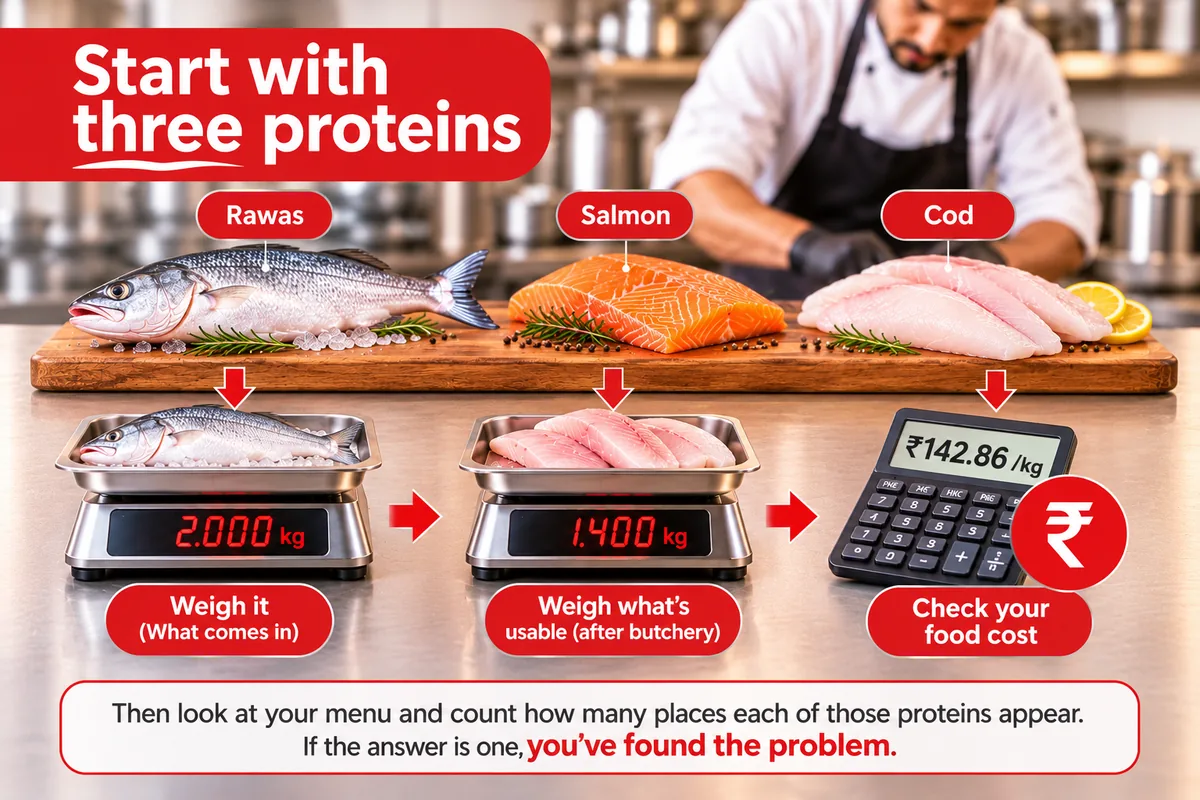
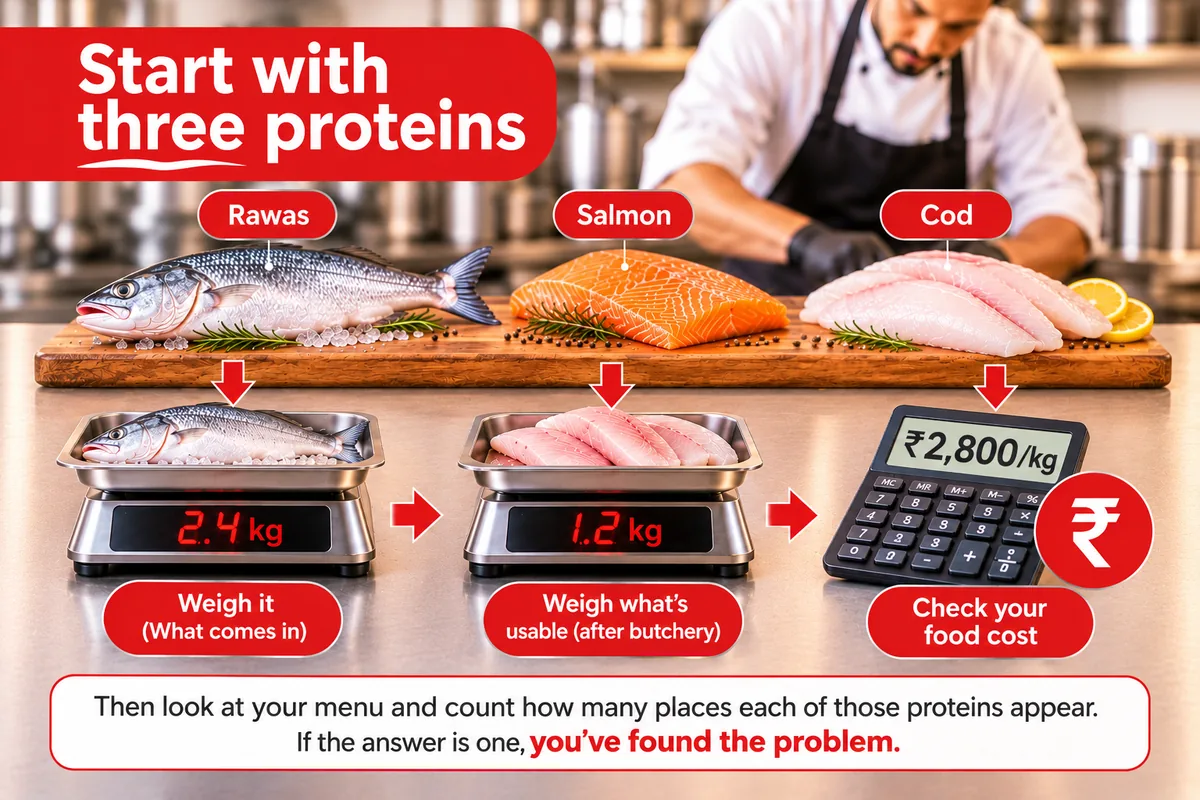
The three-proteins image showed 2.0 kg, 1.4 kg and 142.86 a kilo, none of which the article uses
The regenerated image shows the article's own rawas: 2.4 kg in, 1.2 kg
usable, 2,800 rupees per usable kilo. Alt text now says so too.

diff --git a/restaurant-food-cost-control-butchery-yield.html b/restaurant-food-cost-control-butchery-yield.html
@@ -1674,7 +1674,7 @@
       <figure class="fig">
         <img loading="lazy" decoding="async" width="1200" height="800"
           src="images/blog/restaurant-food-cost-control-butchery-yield/three-proteins-butchery-yield-calculation.webp"
-          alt="Protein yield calculation for three proteins, rawas, salmon and cod: weigh what comes in, weigh what is usable after butchery, then check your food cost per usable kilo on a calculator" />
+          alt="Protein yield calculation for three proteins, rawas, salmon and cod: a 2.4 kg rawas on the scale, 1.2 kg usable after butchery, and a calculator showing the real food cost of 2,800 rupees per usable kilo" />
       </figure>
       <p>Then look at your menu and count how many places each of those proteins appear.</p>
       <div class="callout">
